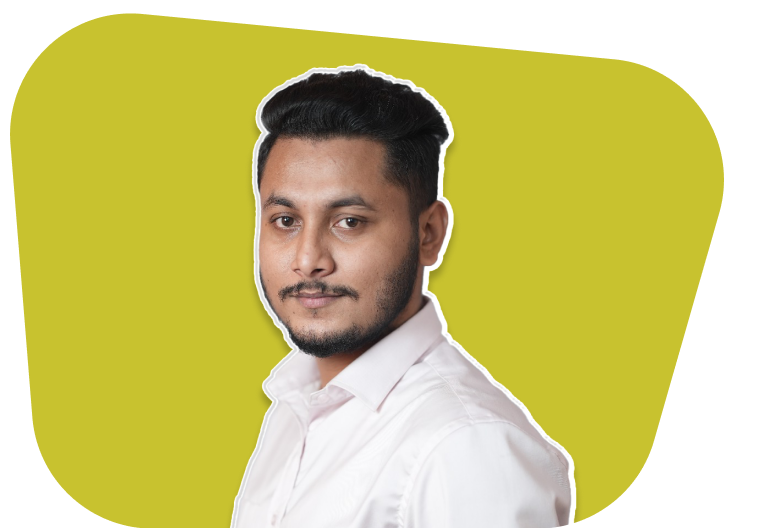
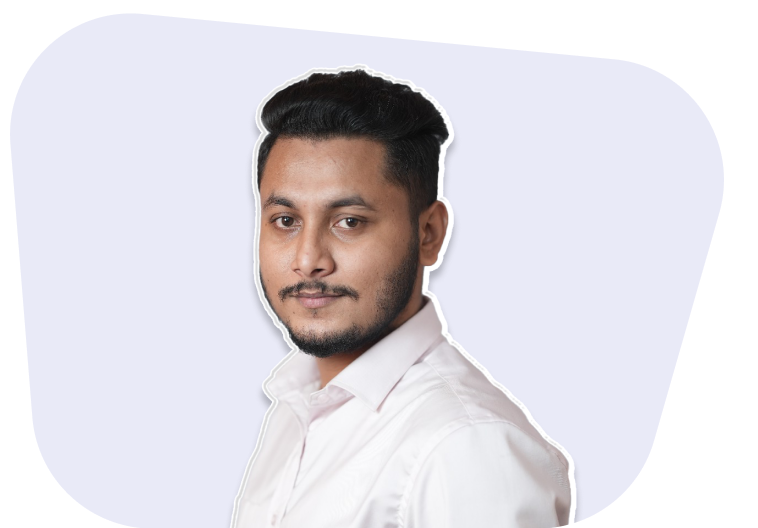
updated colors and proguct url

diff --git a/components/company/FoundersSection.jsx b/components/company/FoundersSection.jsx
@@ -151,11 +151,11 @@ const FoundersSection = () => {
   return (
     <div>
       <ScrollMotionEffect effect="fade-right" duration="2000">
-        <h2
+        <h1
           className={`text-stone-950 xs:text-3xl ms:text-4xl md:text-5xl font-bold text-center !leading-normal`}
         >
           Founders
-        </h2>
+        </h1>
       </ScrollMotionEffect>
 
       <ScrollMotionEffect effect="fade-left" duration="2000">

diff --git a/components/hardware/ProductCards.jsx b/components/hardware/ProductCards.jsx
@@ -14,7 +14,8 @@ const ProductCards = ({ productList }) => {
           delay={500}
           key={index}
         >
-          <Link href={`hardware/${el?.slug}`}>
+          {/* <Link href={`hardware/${el?.slug}`}> */}
+          <Link href={`hardware-collection`}>
             <Card
               shadow="sm"
               isPressable
